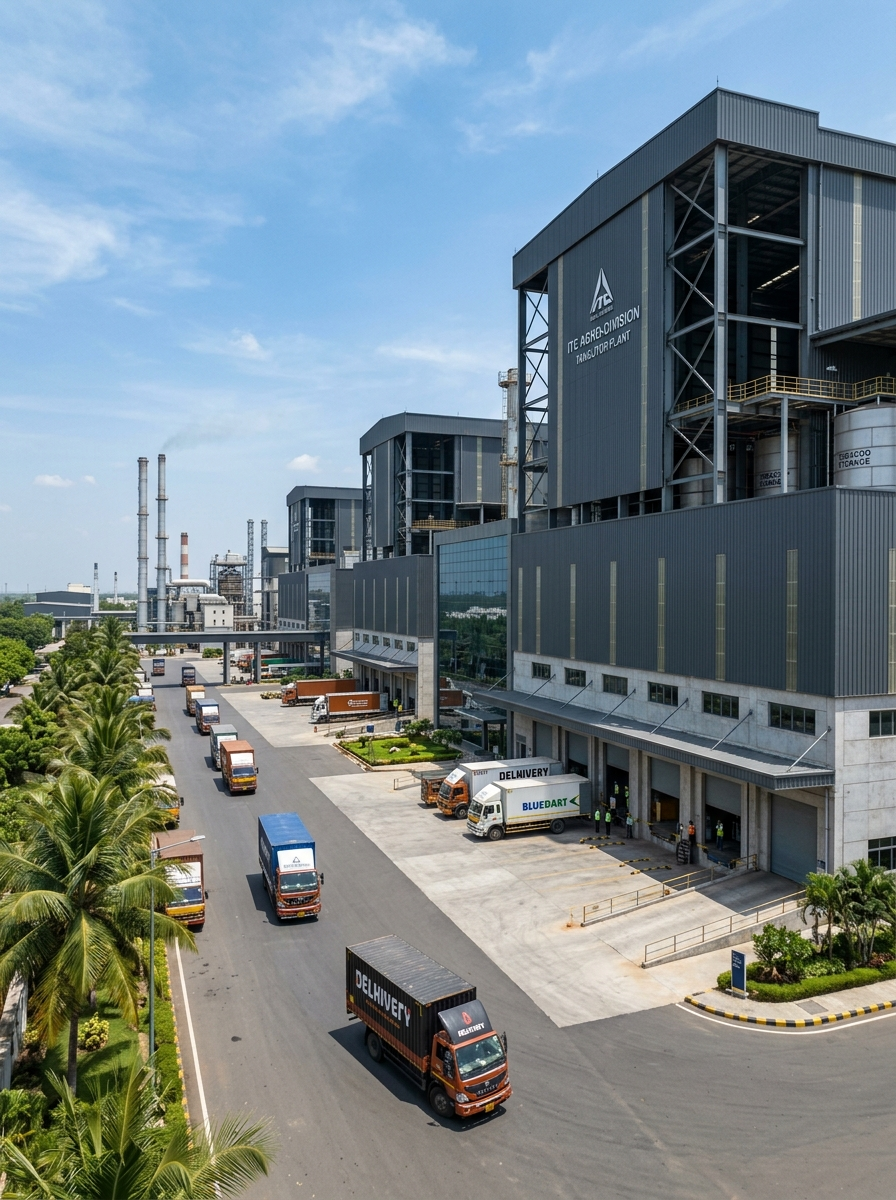
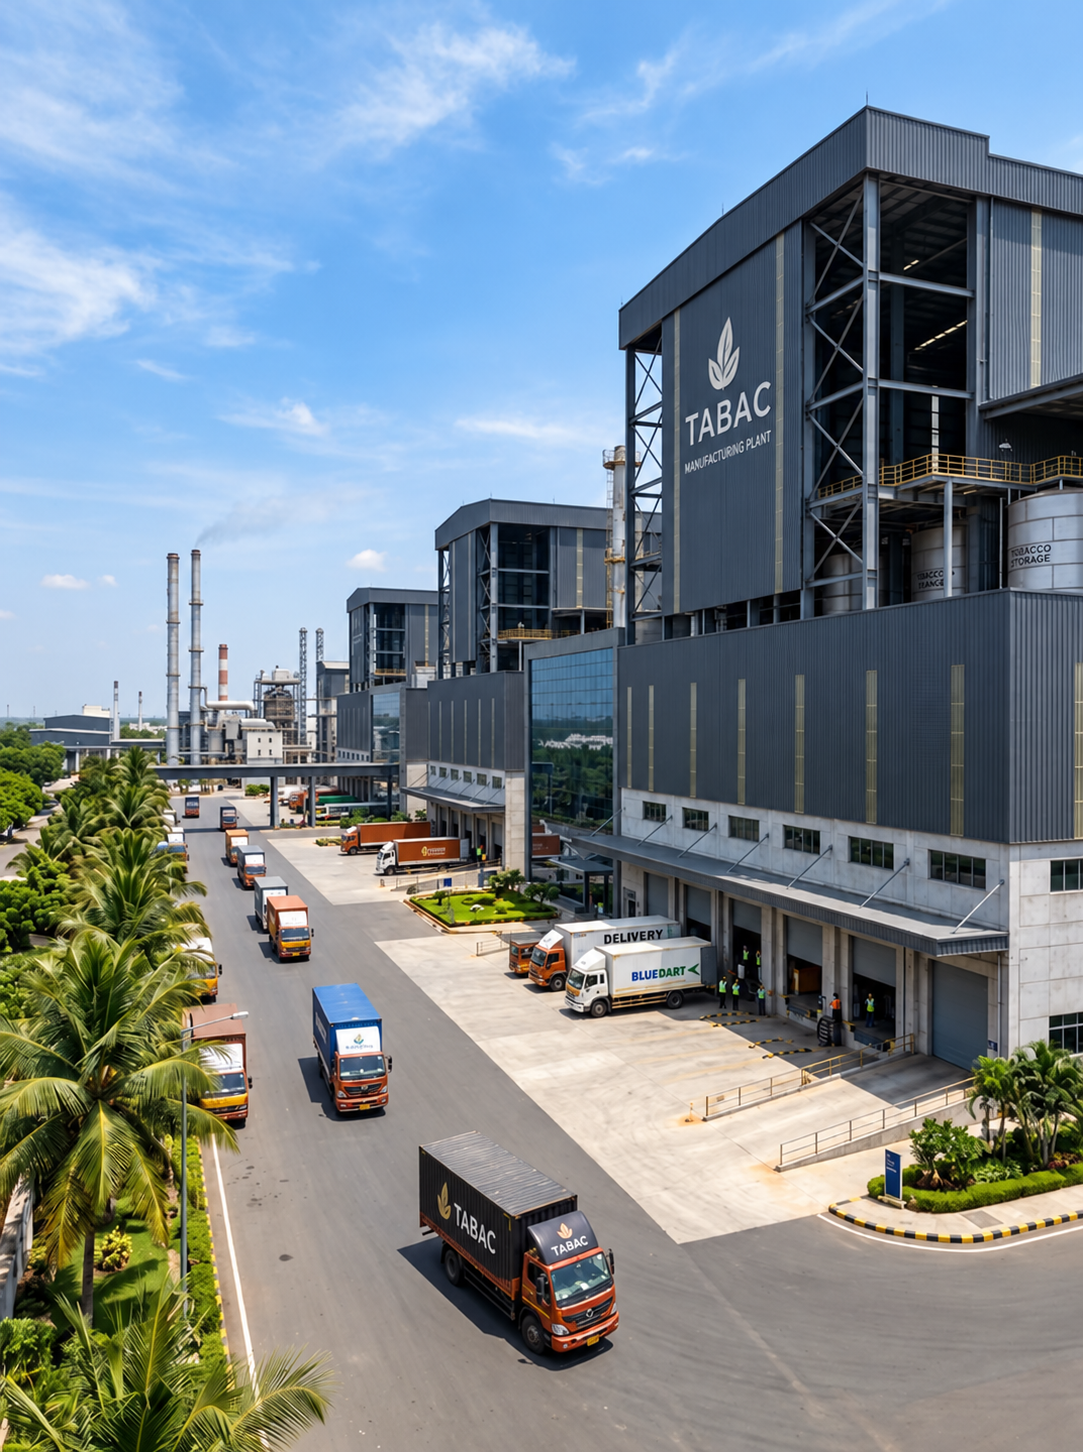
Update facility images and add dynamic cache busting

diff --git a/sustainability.php b/sustainability.php
@@ -1187,7 +1187,7 @@
                         <div class="border-radius-10 position-relative overflow-hidden tab-image-full-width">
                             <img
                                 class="border-radius-10 image-effect tab-image-full-width"
-                                src="assets/images/about-footprint-facility-1.jpg"
+                                src="assets/images/about-footprint-facility-1.jpg?v=<?= filemtime(__DIR__ . '/assets/images/about-footprint-facility-1.jpg') ?>"
                                 width="302"
                                 height="289"
                                 alt="Resource-Conscious Industrial Infrastructure"
@@ -1208,7 +1208,7 @@
                         <div class="border-radius-10 position-relative overflow-hidden tab-image-full-width">
                             <img
                                 class="border-radius-10 image-effect tab-image-full-width"
-                                src="assets/images/about-footprint-facility-2.jpg"
+                                src="assets/images/about-footprint-facility-2.jpg?v=<?= filemtime(__DIR__ . '/assets/images/about-footprint-facility-2.jpg') ?>"
                                 width="302"
                                 height="289"
                                 alt="Planned Facility Coordination and Environmental Care"

diff --git a/operations.php b/operations.php
@@ -1176,7 +1176,7 @@
                         <div class="preservation-image-one-wrapper">
                             <div class="preservation-image-wrapper one overflow-hidden border-radius-10">
                                 <img
-                                    src="assets/images/about-footprint-facility-1-wide.jpg"
+                                    src="assets/images/about-footprint-facility-1-wide.jpg?v=<?= filemtime(__DIR__ . '/assets/images/about-footprint-facility-1-wide.jpg') ?>"
                                     loading="lazy"
                                     width="630"
                                     height="330"
@@ -1233,7 +1233,7 @@
                         <div class="preservation-image-two-wrapper">
                             <div class="preservation-image-wrapper two overflow-hidden border-radius-10">
                                 <img
-                                    src="assets/images/about-footprint-facility-2-wide.jpg"
+                                    src="assets/images/about-footprint-facility-2-wide.jpg?v=<?= filemtime(__DIR__ . '/assets/images/about-footprint-facility-2-wide.jpg') ?>"
                                     loading="lazy"
                                     width="630"
                                     height="330"
